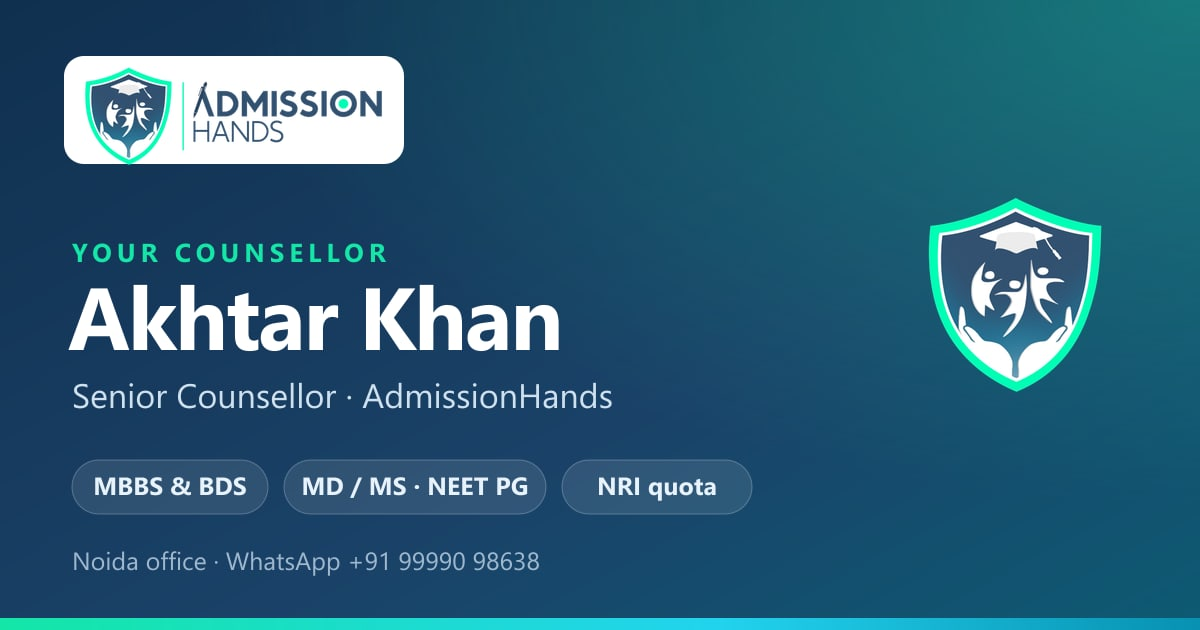
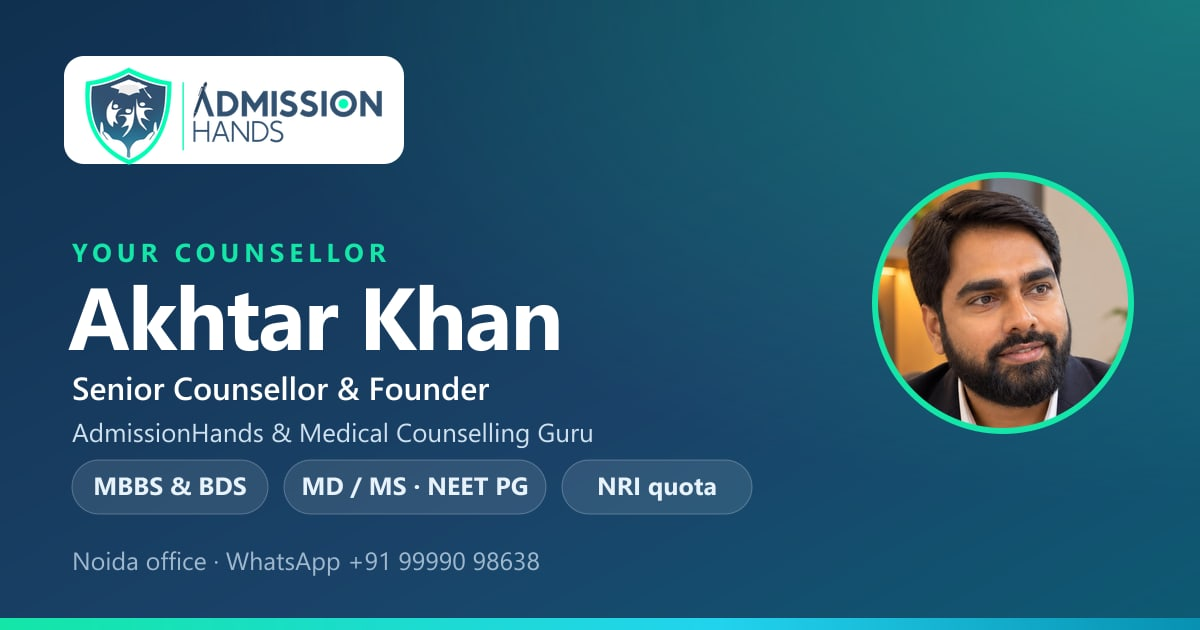
Akhtar Khan: photo, Senior Counsellor & Founder, AdmissionHands & Medical Counselling Guru
Cards and /team take an optional photo and organisation line from
src/data/counsellors.json; the WhatsApp preview shows the photo in place of
the shield. The founder is listed first.

Changed region(s): [[0.7092, 0.2714, 0.9558, 0.6937], [0.0617, 0.6032, 0.5242, 0.7238]]

diff --git a/public/card/akhtar-khan.html b/public/card/akhtar-khan.html
@@ -3,20 +3,20 @@
 <head>
 <meta charset="utf-8">
 <meta name="viewport" content="width=device-width, initial-scale=1, viewport-fit=cover">
-<title>Akhtar Khan · Senior Counsellor · AdmissionHands</title>
-<meta name="description" content="Akhtar Khan, Senior Counsellor at AdmissionHands — NEET UG and NEET PG counselling for MBBS, BDS and MD/MS. WhatsApp, call or visit the Noida office.">
+<title>Akhtar Khan · Senior Counsellor &amp; Founder · AdmissionHands</title>
+<meta name="description" content="Akhtar Khan, Senior Counsellor &amp; Founder at AdmissionHands — NEET UG and NEET PG counselling for MBBS, BDS and MD/MS. WhatsApp, call or visit the Noida office.">
 <meta name="robots" content="noindex, follow">
 <meta name="theme-color" content="#10304f">
 <link rel="canonical" href="https://www.admissionhands.com/akhtar-khan">
 <meta property="og:type" content="profile">
 <meta property="og:site_name" content="AdmissionHands">
-<meta property="og:title" content="Akhtar Khan — Senior Counsellor">
+<meta property="og:title" content="Akhtar Khan — Senior Counsellor &amp; Founder">
 <meta property="og:description" content="NEET UG &amp; PG counselling for MBBS, BDS and MD/MS. Tap to WhatsApp, call, save the contact or get directions to the Noida office.">
 <meta property="og:url" content="https://www.admissionhands.com/akhtar-khan">
 <meta property="og:image" content="https://www.admissionhands.com/card/akhtar-khan-og.jpg">
 <meta property="og:image:width" content="1200">
 <meta property="og:image:height" content="630">
-<meta property="og:image:alt" content="Akhtar Khan, Senior Counsellor, AdmissionHands">
+<meta property="og:image:alt" content="Akhtar Khan, Senior Counsellor &amp; Founder, AdmissionHands">
 <meta name="twitter:card" content="summary_large_image">
 <link rel="icon" href="/favicon.ico" sizes="any">
 <link rel="apple-touch-icon" href="/apple-touch-icon.png">
@@ -49,7 +49,9 @@ svg{width:20px;height:20px;flex:0 0 auto;stroke:currentColor;fill:none;stroke-wi
 .avatar{flex:0 0 76px;width:76px;height:76px;border-radius:50%;display:grid;place-items:center;background:linear-gradient(145deg,#ffffff,#d9fbef);color:var(--navy);font:800 26px/1 Figtree,Inter,sans-serif;letter-spacing:-.5px;box-shadow:0 0 0 3px rgba(20,230,168,.9),0 10px 24px rgba(0,0,0,.25)}
 .eyebrow{font:600 11px/1 Inter,sans-serif;letter-spacing:.12em;text-transform:uppercase;color:var(--mint)}
 h1{margin:6px 0 4px;font:800 28px/1.1 Figtree,Inter,sans-serif;letter-spacing:-.02em}
-.role{margin:0;color:#cfe0ee;font-size:14px}
+.role{margin:0;color:#cfe0ee;font-size:13.5px;line-height:1.45}
+.role .title{display:block;color:#fff;font-weight:600;font-size:14.5px}
+.avatar img{width:100%;height:100%;object-fit:cover;border-radius:50%;display:block}
 .chips{display:flex;flex-wrap:wrap;gap:6px;margin:18px 0 0;padding:0;list-style:none}
 .chips li{font:600 12px/1 Inter,sans-serif;padding:7px 11px;border-radius:999px;background:rgba(255,255,255,.1);border:1px solid rgba(255,255,255,.18);color:#e8f2fa}
 
@@ -111,11 +113,11 @@ footer img{height:32px;width:auto;display:block}
 
     <section class="hero" aria-label="Counsellor">
       <div class="person">
-        <div class="avatar" aria-hidden="true">AK</div>
+        <div class="avatar"><img src="/card/akhtar-khan.jpg" alt="Akhtar Khan" width="76" height="76"></div>
         <div>
           <div class="eyebrow">Your counsellor</div>
           <h1>Akhtar Khan</h1>
-          <p class="role">Senior Counsellor, AdmissionHands</p>
+          <p class="role"><span class="title">Senior Counsellor &amp; Founder</span>AdmissionHands &amp; Medical Counselling Guru</p>
         </div>
       </div>
       <ul class="chips" aria-label="Areas">

diff --git a/src/app/team/page.tsx b/src/app/team/page.tsx
@@ -17,7 +17,7 @@ import counsellors from "@/data/counsellors.json";
 const PATH = "/team";
 const SITE = "https://www.admissionhands.com";
 
-type Counsellor = { slug: string; name: string; title: string; phone: string; email: string };
+type Counsellor = { slug: string; name: string; title: string; org?: string; photo?: string; phone: string; email: string };
 const TEAM = counsellors as Counsellor[];
 const pretty = (p: string) => `+91 ${p.slice(2, 7)} ${p.slice(7)}`;
 const initials = (n: string) => n.split(" ").map((w) => w[0]).join("").slice(0, 2).toUpperCase();
@@ -41,6 +41,7 @@ export default function TeamPage() {
             "@id": `${SITE}${PATH}#${c.slug}`,
             name: c.name,
             jobTitle: c.title,
+            ...(c.photo ? { image: `${SITE}/card/${c.photo}` } : {}),
             telephone: `+${c.phone}`,
             email: c.email,
             url: `${SITE}/${c.slug}`,
@@ -81,15 +82,27 @@ export default function TeamPage() {
           {TEAM.map((c) => (
             <li key={c.slug} id={c.slug} className="rounded-2xl border border-border bg-card p-6">
               <div className="flex items-center gap-4">
-                <div
-                  aria-hidden="true"
-                  className="font-heading grid h-16 w-16 shrink-0 place-items-center rounded-full bg-primary-soft text-xl font-extrabold text-primary-strong ring-2 ring-primary/30"
-                >
-                  {initials(c.name)}
-                </div>
+                {c.photo ? (
+                  // eslint-disable-next-line @next/next/no-img-element -- a static file in public/card, already sized
+                  <img
+                    src={`/card/${c.photo}`}
+                    alt={c.name}
+                    width={64}
+                    height={64}
+                    className="h-16 w-16 shrink-0 rounded-full object-cover ring-2 ring-primary/30"
+                  />
+                ) : (
+                  <div
+                    aria-hidden="true"
+                    className="font-heading grid h-16 w-16 shrink-0 place-items-center rounded-full bg-primary-soft text-xl font-extrabold text-primary-strong ring-2 ring-primary/30"
+                  >
+                    {initials(c.name)}
+                  </div>
+                )}
                 <div>
                   <h2 className="font-heading text-xl font-bold text-foreground">{c.name}</h2>
-                  <p className="text-sm text-muted-foreground">{c.title}</p>
+                  <p className="text-sm font-medium text-foreground">{c.title}</p>
+                  {c.org && <p className="text-sm text-muted-foreground">{c.org}</p>}
                 </div>
               </div>
               <ul className="mt-5 space-y-2 text-sm">

diff --git a/scripts/cards/template.html b/scripts/cards/template.html
@@ -49,7 +49,9 @@ svg{width:20px;height:20px;flex:0 0 auto;stroke:currentColor;fill:none;stroke-wi
 .avatar{flex:0 0 76px;width:76px;height:76px;border-radius:50%;display:grid;place-items:center;background:linear-gradient(145deg,#ffffff,#d9fbef);color:var(--navy);font:800 26px/1 Figtree,Inter,sans-serif;letter-spacing:-.5px;box-shadow:0 0 0 3px rgba(20,230,168,.9),0 10px 24px rgba(0,0,0,.25)}
 .eyebrow{font:600 11px/1 Inter,sans-serif;letter-spacing:.12em;text-transform:uppercase;color:var(--mint)}
 h1{margin:6px 0 4px;font:800 28px/1.1 Figtree,Inter,sans-serif;letter-spacing:-.02em}
-.role{margin:0;color:#cfe0ee;font-size:14px}
+.role{margin:0;color:#cfe0ee;font-size:13.5px;line-height:1.45}
+.role .title{display:block;color:#fff;font-weight:600;font-size:14.5px}
+.avatar img{width:100%;height:100%;object-fit:cover;border-radius:50%;display:block}
 .chips{display:flex;flex-wrap:wrap;gap:6px;margin:18px 0 0;padding:0;list-style:none}
 .chips li{font:600 12px/1 Inter,sans-serif;padding:7px 11px;border-radius:999px;background:rgba(255,255,255,.1);border:1px solid rgba(255,255,255,.18);color:#e8f2fa}
 
@@ -111,11 +113,11 @@ footer img{height:32px;width:auto;display:block}
 
     <section class="hero" aria-label="Counsellor">
       <div class="person">
-        <div class="avatar" aria-hidden="true">{{INITIALS}}</div>
+        {{AVATAR}}
         <div>
           <div class="eyebrow">Your counsellor</div>
           <h1>{{NAME}}</h1>
-          <p class="role">{{TITLE}}, AdmissionHands</p>
+          <p class="role"><span class="title">{{TITLE}}</span>{{ORG}}</p>
         </div>
       </div>
       <ul class="chips" aria-label="Areas">

diff --git a/public/card/gulshan-tomar.html b/public/card/gulshan-tomar.html
@@ -49,7 +49,9 @@ svg{width:20px;height:20px;flex:0 0 auto;stroke:currentColor;fill:none;stroke-wi
 .avatar{flex:0 0 76px;width:76px;height:76px;border-radius:50%;display:grid;place-items:center;background:linear-gradient(145deg,#ffffff,#d9fbef);color:var(--navy);font:800 26px/1 Figtree,Inter,sans-serif;letter-spacing:-.5px;box-shadow:0 0 0 3px rgba(20,230,168,.9),0 10px 24px rgba(0,0,0,.25)}
 .eyebrow{font:600 11px/1 Inter,sans-serif;letter-spacing:.12em;text-transform:uppercase;color:var(--mint)}
 h1{margin:6px 0 4px;font:800 28px/1.1 Figtree,Inter,sans-serif;letter-spacing:-.02em}
-.role{margin:0;color:#cfe0ee;font-size:14px}
+.role{margin:0;color:#cfe0ee;font-size:13.5px;line-height:1.45}
+.role .title{display:block;color:#fff;font-weight:600;font-size:14.5px}
+.avatar img{width:100%;height:100%;object-fit:cover;border-radius:50%;display:block}
 .chips{display:flex;flex-wrap:wrap;gap:6px;margin:18px 0 0;padding:0;list-style:none}
 .chips li{font:600 12px/1 Inter,sans-serif;padding:7px 11px;border-radius:999px;background:rgba(255,255,255,.1);border:1px solid rgba(255,255,255,.18);color:#e8f2fa}
 
@@ -115,7 +117,7 @@ footer img{height:32px;width:auto;display:block}
         <div>
           <div class="eyebrow">Your counsellor</div>
           <h1>Gulshan Tomar</h1>
-          <p class="role">Admission Counsellor, AdmissionHands</p>
+          <p class="role"><span class="title">Admission Counsellor</span>AdmissionHands</p>
         </div>
       </div>
       <ul class="chips" aria-label="Areas">

diff --git a/public/card/dev-kumar.html b/public/card/dev-kumar.html
@@ -49,7 +49,9 @@ svg{width:20px;height:20px;flex:0 0 auto;stroke:currentColor;fill:none;stroke-wi
 .avatar{flex:0 0 76px;width:76px;height:76px;border-radius:50%;display:grid;place-items:center;background:linear-gradient(145deg,#ffffff,#d9fbef);color:var(--navy);font:800 26px/1 Figtree,Inter,sans-serif;letter-spacing:-.5px;box-shadow:0 0 0 3px rgba(20,230,168,.9),0 10px 24px rgba(0,0,0,.25)}
 .eyebrow{font:600 11px/1 Inter,sans-serif;letter-spacing:.12em;text-transform:uppercase;color:var(--mint)}
 h1{margin:6px 0 4px;font:800 28px/1.1 Figtree,Inter,sans-serif;letter-spacing:-.02em}
-.role{margin:0;color:#cfe0ee;font-size:14px}
+.role{margin:0;color:#cfe0ee;font-size:13.5px;line-height:1.45}
+.role .title{display:block;color:#fff;font-weight:600;font-size:14.5px}
+.avatar img{width:100%;height:100%;object-fit:cover;border-radius:50%;display:block}
 .chips{display:flex;flex-wrap:wrap;gap:6px;margin:18px 0 0;padding:0;list-style:none}
 .chips li{font:600 12px/1 Inter,sans-serif;padding:7px 11px;border-radius:999px;background:rgba(255,255,255,.1);border:1px solid rgba(255,255,255,.18);color:#e8f2fa}
 
@@ -115,7 +117,7 @@ footer img{height:32px;width:auto;display:block}
         <div>
           <div class="eyebrow">Your counsellor</div>
           <h1>Dev Kumar</h1>
-          <p class="role">Admission Counsellor, AdmissionHands</p>
+          <p class="role"><span class="title">Admission Counsellor</span>AdmissionHands</p>
         </div>
       </div>
       <ul class="chips" aria-label="Areas">

diff --git a/public/card/nitin-tomar.html b/public/card/nitin-tomar.html
@@ -49,7 +49,9 @@ svg{width:20px;height:20px;flex:0 0 auto;stroke:currentColor;fill:none;stroke-wi
 .avatar{flex:0 0 76px;width:76px;height:76px;border-radius:50%;display:grid;place-items:center;background:linear-gradient(145deg,#ffffff,#d9fbef);color:var(--navy);font:800 26px/1 Figtree,Inter,sans-serif;letter-spacing:-.5px;box-shadow:0 0 0 3px rgba(20,230,168,.9),0 10px 24px rgba(0,0,0,.25)}
 .eyebrow{font:600 11px/1 Inter,sans-serif;letter-spacing:.12em;text-transform:uppercase;color:var(--mint)}
 h1{margin:6px 0 4px;font:800 28px/1.1 Figtree,Inter,sans-serif;letter-spacing:-.02em}
-.role{margin:0;color:#cfe0ee;font-size:14px}
+.role{margin:0;color:#cfe0ee;font-size:13.5px;line-height:1.45}
+.role .title{display:block;color:#fff;font-weight:600;font-size:14.5px}
+.avatar img{width:100%;height:100%;object-fit:cover;border-radius:50%;display:block}
 .chips{display:flex;flex-wrap:wrap;gap:6px;margin:18px 0 0;padding:0;list-style:none}
 .chips li{font:600 12px/1 Inter,sans-serif;padding:7px 11px;border-radius:999px;background:rgba(255,255,255,.1);border:1px solid rgba(255,255,255,.18);color:#e8f2fa}
 
@@ -115,7 +117,7 @@ footer img{height:32px;width:auto;display:block}
         <div>
           <div class="eyebrow">Your counsellor</div>
           <h1>Nitin Tomar</h1>
-          <p class="role">Senior Counsellor, AdmissionHands</p>
+          <p class="role"><span class="title">Senior Counsellor</span>AdmissionHands</p>
         </div>
       </div>
       <ul class="chips" aria-label="Areas">
